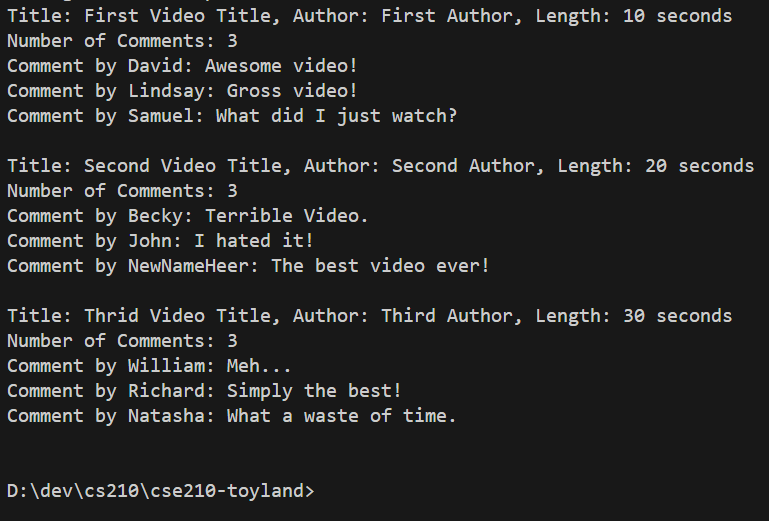
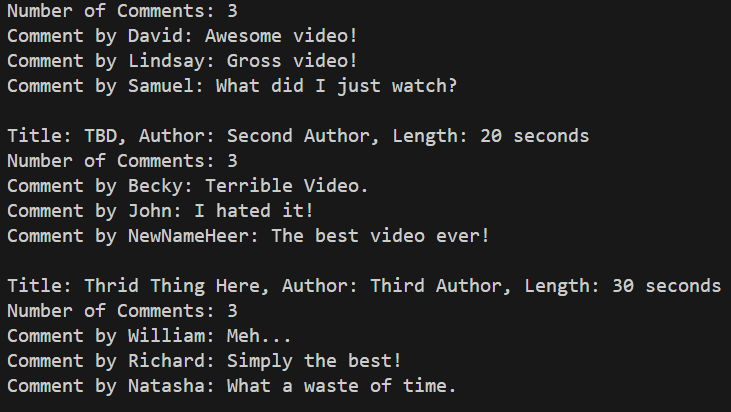
Assignment screenshots

diff --git a/foundation/Foundation1/Program.cs b/foundation/Foundation1/Program.cs
@@ -55,8 +55,8 @@ public class Program
     public static void Main(string[] args)
     {
         Video video1 = new Video("First Video Title", "First Author", 10);
-        Video video2 = new Video("Second Video Title", "Second Author", 20);
-        Video video3 = new Video("Thrid Video Title", "Third Author", 30);
+        Video video2 = new Video("TBD", "Second Author", 20);
+        Video video3 = new Video("Thrid Thing Here", "Third Author", 30);
 
         video1.AddComment(new Comment("David", "Awesome video!"));
         video1.AddComment(new Comment("Lindsay", "Gross video!"));
